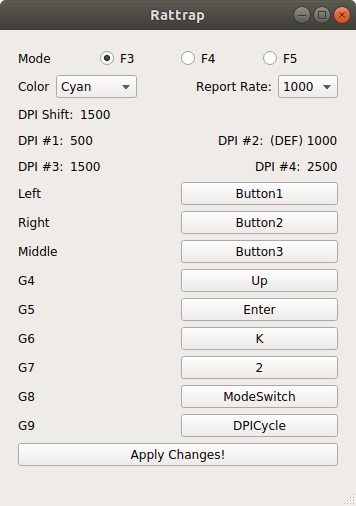
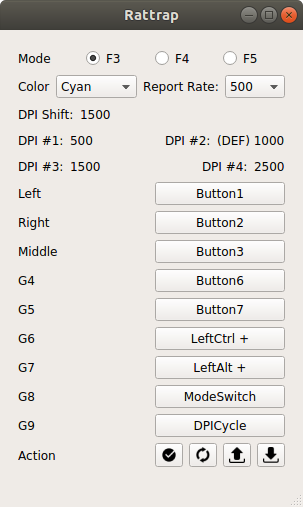
Fix some bugs and update screenshot

diff --git a/src/ratslap.py b/src/ratslap.py
@@ -107,8 +107,8 @@ class Ratslap:
         return mode
 
     def modify(self, mode_index=3, **kwargs):
-        my_dict = {key: kwargs[key] for key in kwargs}
-        distinct_options = self.get_difference(mode_index, **my_dict)
+        distinct_options = self.get_difference(mode_index, **kwargs)
+        distinct_options.pop("dpi_shift", None)  # Don't know how I even managed to changed my dpi shift value
         if distinct_options:
             command = f"--modify {self.mode(mode_index)} "
             options = " ".join([f"--{key} {''.join(distinct_options[key].split())}" for key in distinct_options])
@@ -124,11 +124,10 @@ class Ratslap:
         return different_items
 
     def reset(self, mode):
-        if input("Confirm reset? ([Y/any key])").lower() == 'y':
-            for mode_index in range(3, 6):
-                if str(mode).lower() == 'all' or mode == mode_index:
-                    args = self.defaults[self.mode(mode_index)]
-                    self.modify(mode_index, **args)
+        for mode_index in range(3, 6):
+            if str(mode).lower() == 'all' or mode == mode_index:
+                args = self.defaults[self.mode(mode_index)]
+                self.modify(mode_index, **args)
 
     def get_valid(self, option):
         if option == "keys":

diff --git a/src/helper_widgets.py b/src/helper_widgets.py
@@ -29,10 +29,11 @@ class CommandEditor(QtWidgets.QDialog, Ui_CommandEditor):
             if len(shortcut.string) > 0:
                 self.current_shortcut.setText(shortcut.string)
                 self.pushButton.setText(shortcut.string)
-                self.btn_ok.setEnabled(shortcut.valid)
+                self.btn_ok.setEnabled(shortcut.valid)  # FIXME: Also check if user is trying to assign manually
                 self.pushButton.setStyleSheet("")
                 if not shortcut.valid:
                     self.pushButton.setStyleSheet("background-color: rgb(255, 0, 4);")
+
         else:
             self.current_shortcut.setText(self.buttons_specials_field.currentText())
 

diff --git a/src/event_handler.py b/src/event_handler.py
@@ -25,7 +25,7 @@ class Shortcut(str):
 
     @property
     def string(self):
-        return " + ".join(i.repr for i in self.keys) + ("+ " if self.all_modifiers() else "")
+        return " + ".join(i.repr for i in self.keys) + (" +" if self.all_modifiers() else "")
 
     def has_any_type(self, type_):
         return any((i.is_type(type_) for i in self.keys))
@@ -44,7 +44,7 @@ class Shortcut(str):
             return self.string + " is not a valid combo."
 
     def __repr__(self):
-        return "+".join(i.repr for i in self.keys) + ("+" if self.all_modifiers() else "")
+        return "+".join(i.repr for i in self.keys) + (" +" if self.all_modifiers() else "")
 
 
 class Event:

diff --git a/src/rattrap.py b/src/rattrap.py
@@ -11,7 +11,7 @@ class RattrapWindow(QtWidgets.QMainWindow, Ui_Rattrap):
     def __init__(self):
         super().__init__()
         self.setupUi(self)
-        self.resize(0, 0)
+        self.resize(303,477)
         self.move(QtWidgets.QApplication.desktop().screen().rect().center() - self.rect().center())
 
         self.current_mode_name = None
